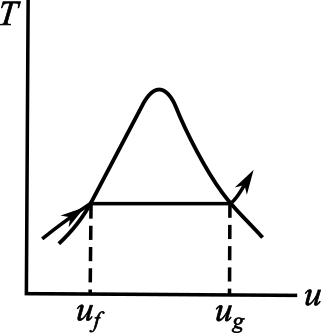
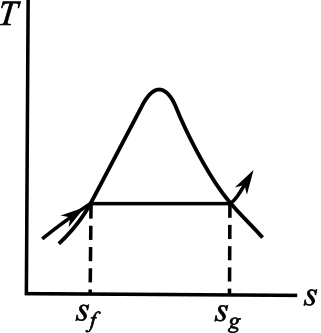
finished edits for 3.1 from 7/13 meeting

Changed region(s): [[0.6542, 0.9009, 0.7788, 1.0], [0.2181, 0.9009, 0.3427, 1.0], [0.9346, 0.8709, 1.0, 0.9309]]

diff --git a/me200/3.1-eq.html b/me200/3.1-eq.html
@@ -111,7 +111,7 @@
       <div class="eqwrap">
         <div class="title-xl"><b>Quality (or Vapor Quality) and Two-Phase Mixture Properties</b></div>
         <div class="eqbig">
-          \(\displaystyle x = \frac{m_{\text{g}}}{m_{\text{f}} + m_{\text{g}}}\)
+          \(\displaystyle x = \frac{m_{g}}{m_{f} + m_{g}}\)
         </div>
         <div class="eqbig" style="margin-top:10px">
           \(\displaystyle v = (1-x)v_f + xv_g = v_f + x(v_g - v_f)\)
@@ -443,7 +443,7 @@ function drawPlots() {
   const panels = [
     {
       id: 'v',
-      xlabel: 'v  (m³/kg)', ylabel: 'T  (°C)',
+      xlabel: 'v  [m³/kg]', ylabel: 'T  [°C]',
       logX: true,
       xDom: [0.001, 200], yDom: [0, 400],
       dot: { x: props.v, y: state.T },
@@ -451,21 +451,21 @@ function drawPlots() {
     },
     {
       id: 'u',
-      xlabel: 'u  (kJ/kg)', ylabel: 'T  (°C)',
+      xlabel: 'u  [kJ/kg]', ylabel: 'T  [°C]',
       logX: false,
       xDom: [0, 3000], yDom: [0, 400],
       dot: { x: props.u, y: state.T },
     },
     {
       id: 'h',
-      xlabel: 'h  (kJ/kg)', ylabel: 'T  (°C)',
+      xlabel: 'h  [kJ/kg]', ylabel: 'T  [°C]',
       logX: false,
       xDom: [0, 3500], yDom: [0, 400],
       dot: { x: props.h, y: state.T },
     },
     {
       id: 's',
-      xlabel: 's  (kJ/(kg·K))', ylabel: 'T  (°C)',
+      xlabel: 's  [kJ/(kg·K)]', ylabel: 'T  [°C]',
       logX: false,
       xDom: [0, 10], yDom: [0, 400],
       dot: { x: props.s, y: state.T },
@@ -556,9 +556,7 @@ function drawPlots() {
       const vapPt = pts[2] || pts[pts.length - 1]; // sat vapor is always index 2
       const lx = xSc(Math.max(panel.xDom[0], Math.min(panel.xDom[1], vapPt.x)));
       const ly = ySc(vapPt.y);
-      const labelOffsets = {
-        u: { "15.55": { dx: 22, dy: -40 } },
-      };
+      const labelOffsets = {};
       const off = (labelOffsets[panel.id] && labelOffsets[panel.id][key]) || { dx: 4, dy: -4 };
       svg.append('text')
         .attr('x', lx + off.dx).attr('y', ly + off.dy)